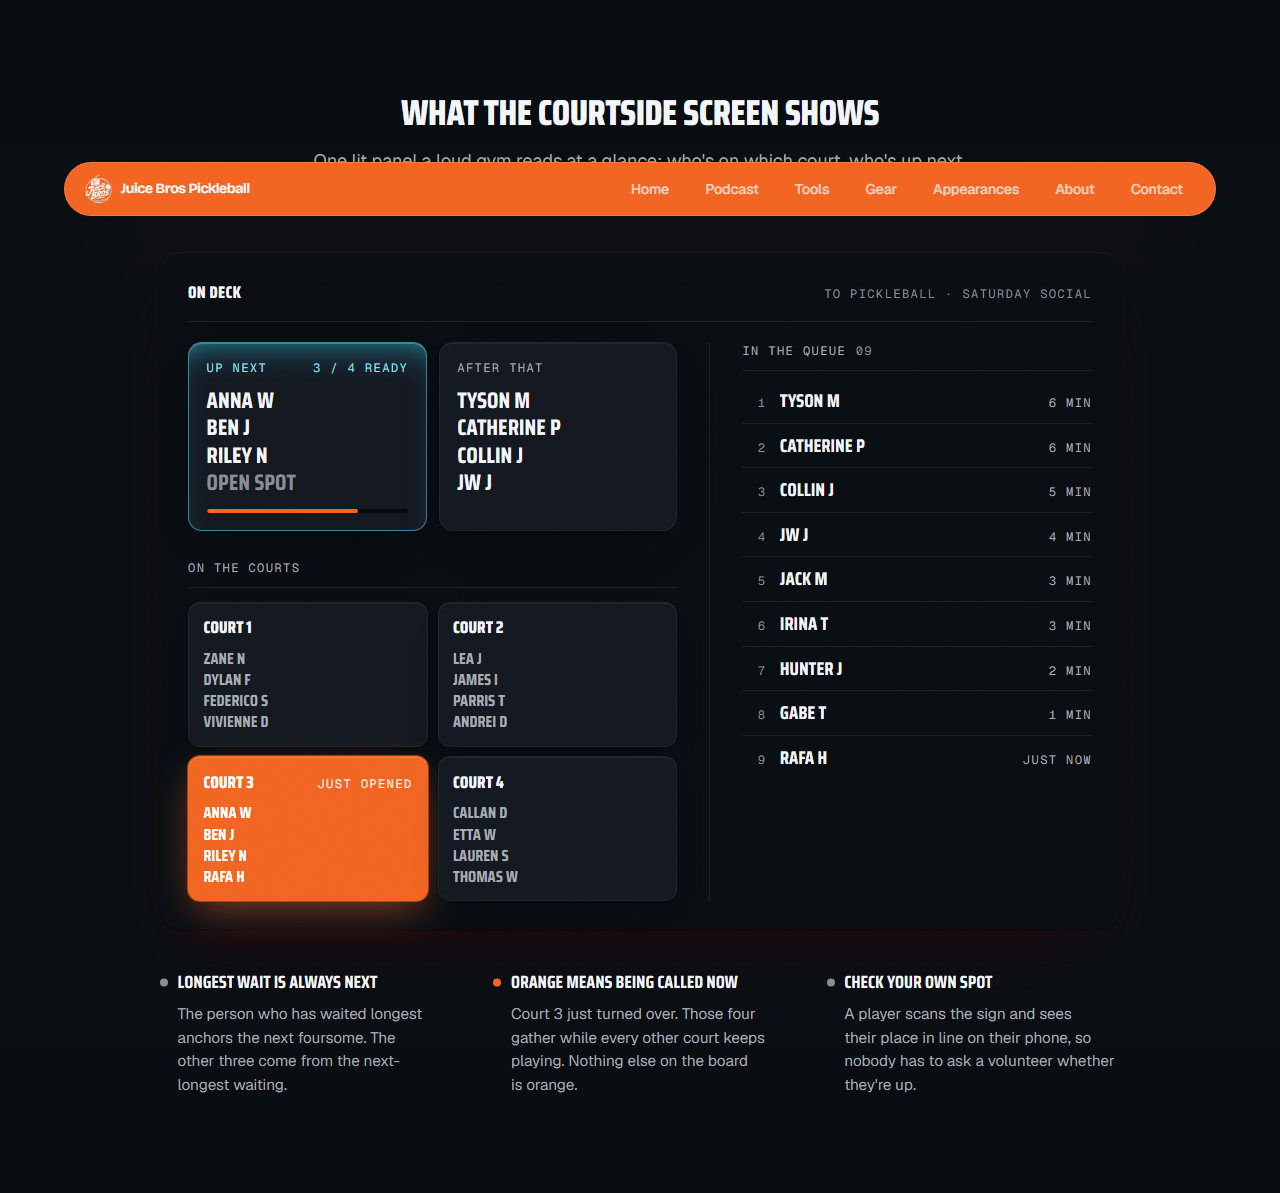
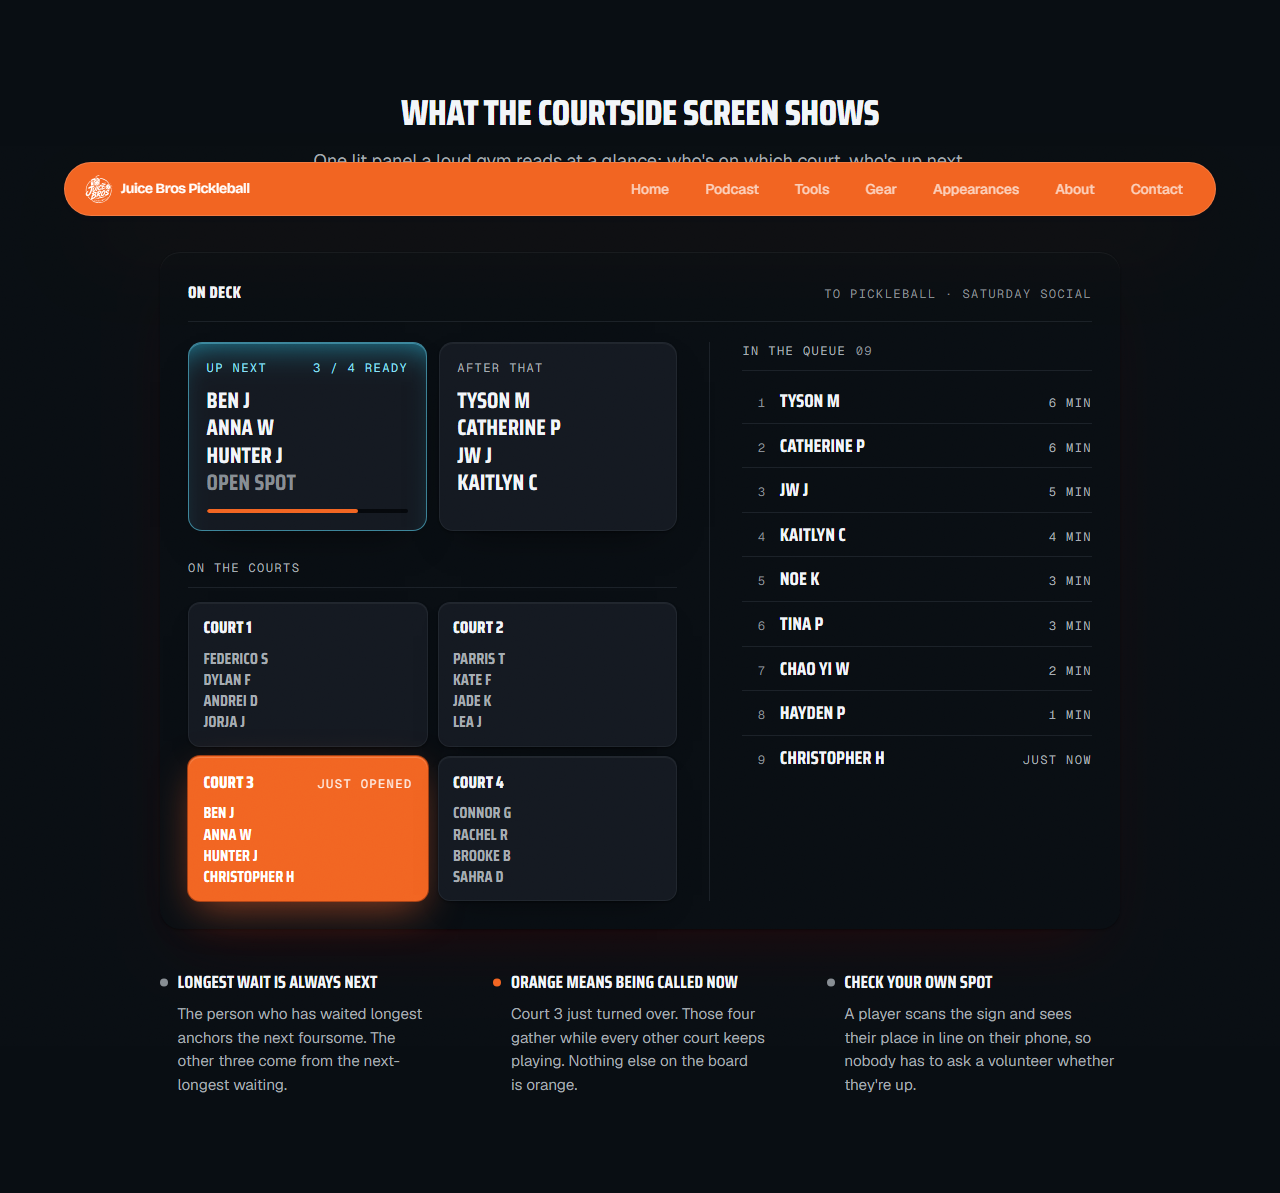
On Deck: pull placeholder names from the current PPA top 20
Ben Johns, Anna Leigh Waters, Hayden Patriquin, and the rest of the
men's and women's top 20 (per ppatour.com/rankings/) replace the
earlier picks, some of whom had since dropped out of the current
rankings.

diff --git a/src/app/on-deck/sections/courtside-board.tsx b/src/app/on-deck/sections/courtside-board.tsx
@@ -6,7 +6,8 @@ import { Reveal } from "@/components/motion/reveal";
  * near-black cool ground, bolted panels with a lit top edge, Saira Condensed
  * signage, Geist Mono readouts, orange reserved for the one foursome being
  * called — without pulling in any of the real `.od-*` arena CSS. Names are
- * drawn from real top PPA pros; nothing here is a screenshot or a live view.
+ * drawn from the current PPA Tour top 20 (men's + women's); nothing here is
+ * a screenshot or a live view.
  *
  * The board was always dark, depicting a physical display in a gym; the page
  * around it now shares the same ground (`.odl`), so the board reads as the
@@ -18,32 +19,32 @@ const onDeck = [
     slot: "Up next",
     tone: "next" as const,
     ready: "3 / 4 ready",
-    names: ["Anna W", "Ben J", "Riley N", "open spot"],
+    names: ["Ben J", "Anna W", "Hunter J", "open spot"],
   },
   {
     slot: "After that",
     tone: "wait" as const,
-    names: ["Tyson M", "Catherine P", "Collin J", "JW J"],
+    names: ["Tyson M", "Catherine P", "JW J", "Kaitlyn C"],
   },
 ];
 
 const courts = [
-  { n: "1", names: ["Zane N", "Dylan F", "Federico S", "Vivienne D"] },
-  { n: "2", names: ["Lea J", "James I", "Parris T", "Andrei D"] },
-  { n: "3", live: true, names: ["Anna W", "Ben J", "Riley N", "Rafa H"] },
-  { n: "4", names: ["Callan D", "Etta W", "Lauren S", "Thomas W"] },
+  { n: "1", names: ["Federico S", "Dylan F", "Andrei D", "Jorja J"] },
+  { n: "2", names: ["Parris T", "Kate F", "Jade K", "Lea J"] },
+  { n: "3", live: true, names: ["Ben J", "Anna W", "Hunter J", "Christopher H"] },
+  { n: "4", names: ["Connor G", "Rachel R", "Brooke B", "Sahra D"] },
 ];
 
 const queue = [
   { name: "Tyson M", wait: "6 MIN" },
   { name: "Catherine P", wait: "6 MIN" },
-  { name: "Collin J", wait: "5 MIN" },
-  { name: "JW J", wait: "4 MIN" },
-  { name: "Jack M", wait: "3 MIN" },
-  { name: "Irina T", wait: "3 MIN" },
-  { name: "Hunter J", wait: "2 MIN" },
-  { name: "Gabe T", wait: "1 MIN" },
-  { name: "Rafa H", wait: "just now" },
+  { name: "JW J", wait: "5 MIN" },
+  { name: "Kaitlyn C", wait: "4 MIN" },
+  { name: "Noe K", wait: "3 MIN" },
+  { name: "Tina P", wait: "3 MIN" },
+  { name: "Chao Yi W", wait: "2 MIN" },
+  { name: "Hayden P", wait: "1 MIN" },
+  { name: "Christopher H", wait: "just now" },
 ];
 
 const annotations = [
